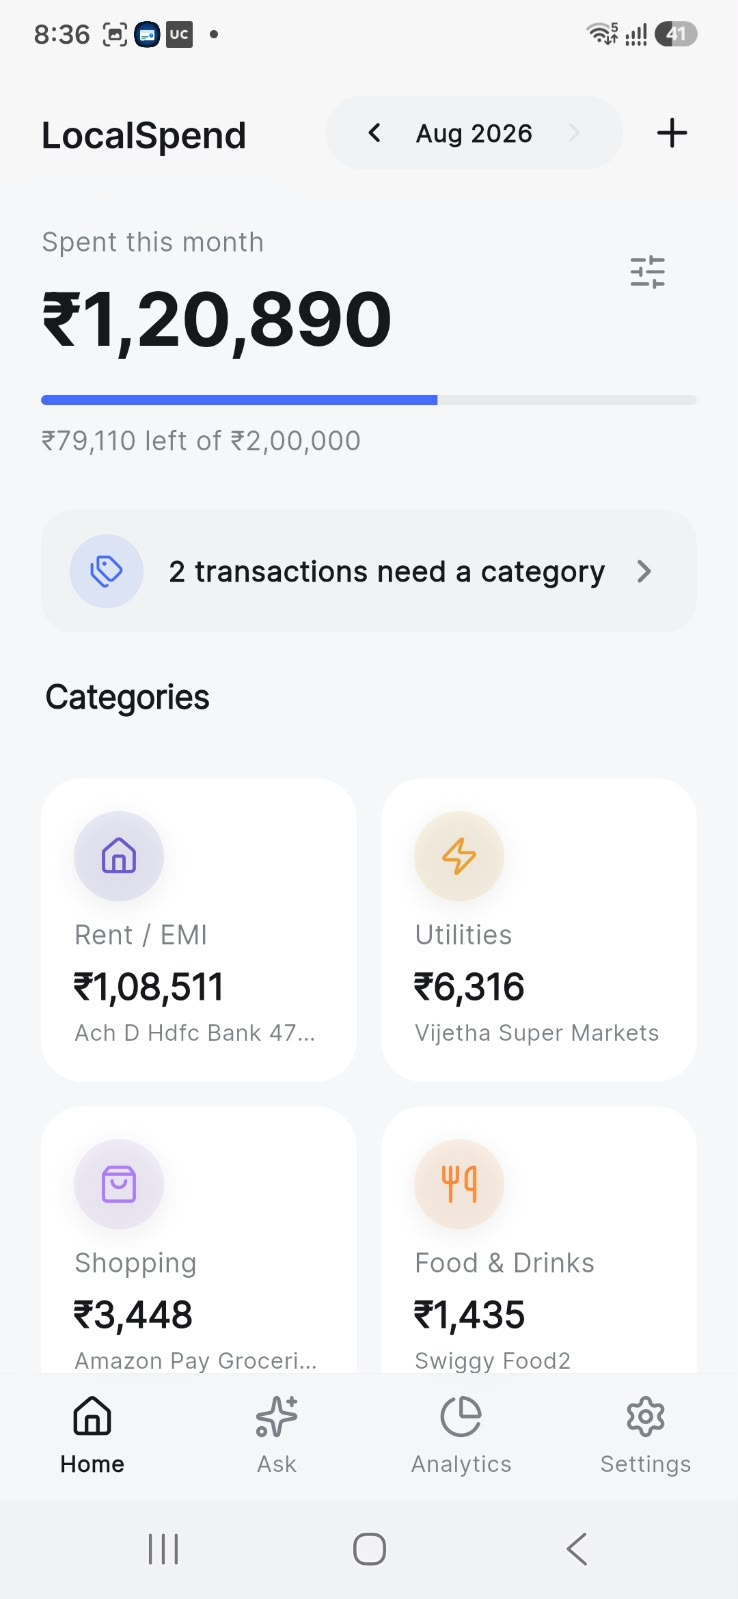
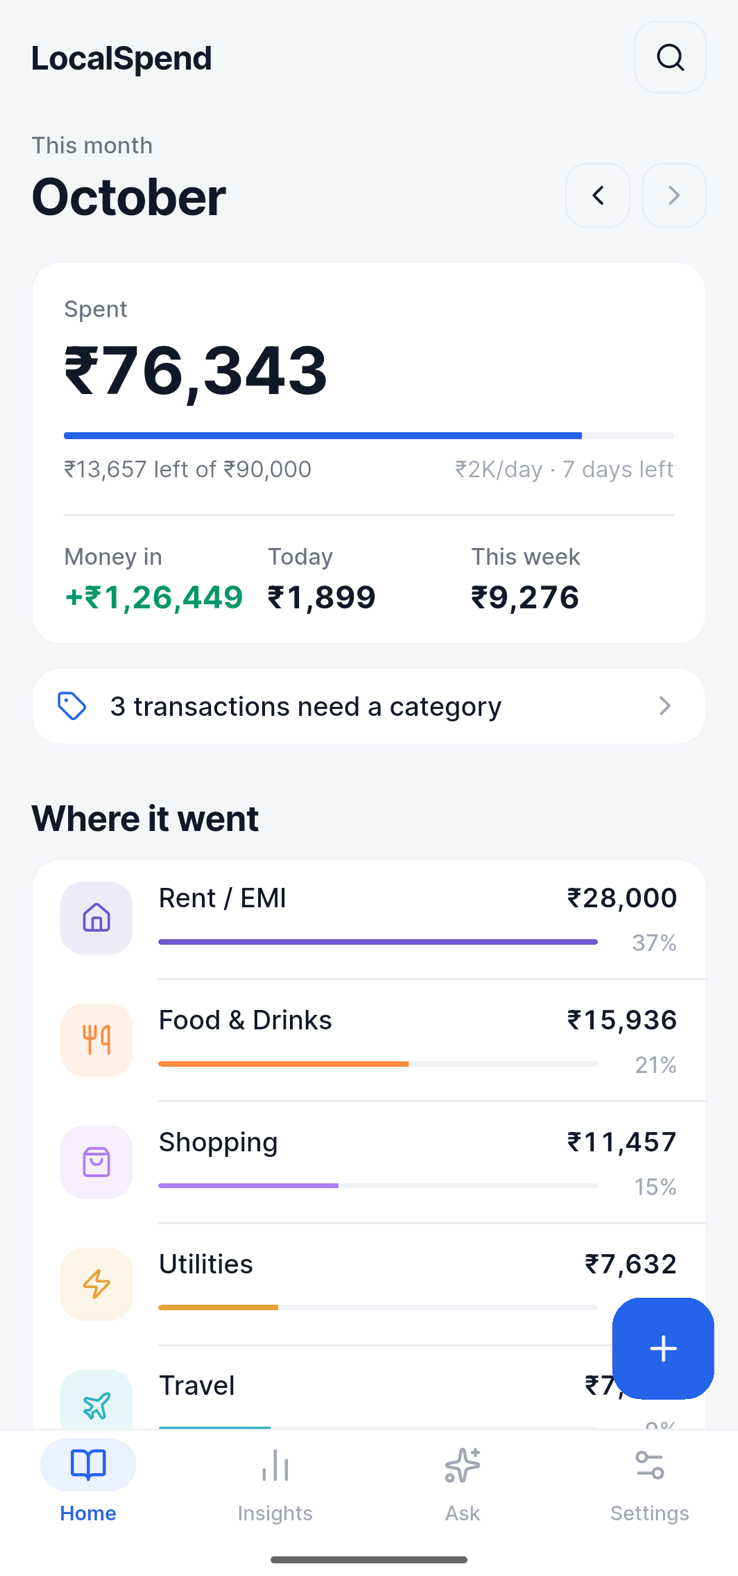
LocalSpend 2.8.0: new screenshots, updated page and privacy policy
- Six fresh screenshots of the redesigned app (light + dark)
- FAQ/how-it-works match the app (no encrypted backups, month insights)
- 2.8.0 changelog entry
- Privacy policy matches app behaviour: Gmail Limited Use disclosure,
  no font fetching, no location/alarm permissions, Clear all data

diff --git a/src/content/privacy/localspend.md b/src/content/privacy/localspend.md
@@ -1,51 +1,55 @@
 ---
 app: "LocalSpend"
-lastUpdated: "2026-08-15"
+lastUpdated: "2026-10-25"
 ---
 
 ## Overview
 
-LocalSpend handles some of your most sensitive information — your financial transactions — so it is built to keep that data on your device. This policy explains exactly what the app does, including the few places where it talks to the internet.
+LocalSpend handles some of your most sensitive information, your financial transactions, so it keeps that data on your device. It has no account, no server and no analytics. This policy explains exactly what the app does, including the few times it uses the internet.
 
 ## Data we collect
 
-**We do not collect your personal data.** LocalSpend has no server, no user accounts, no analytics, no crash reporting, and no advertising. Your transactions are never uploaded anywhere.
+**We do not collect your personal data.** LocalSpend has no server, no user accounts, no analytics, no crash reporting and no advertising. Your transactions are never uploaded anywhere, and we never receive them.
 
 ## Data stored on your device
 
-Your transactions, categories, budgets, merchant rules, and settings live in a local database on your phone. Optionally, the original SMS or email text of a transaction can be kept locally so you can review the source. You can protect the app with Face ID / fingerprint lock.
+Your transactions, budget, category rules and settings live in a private database on your phone. For each imported transaction the app also keeps the original SMS text, or a short excerpt of the email, so you can see where it came from. If you connect Gmail, the app stores the account's email address on your phone to show which account is connected.
 
 ## SMS reading (Android only)
 
-With your permission, LocalSpend reads SMS messages to find bank, card, and UPI transaction alerts. All parsing happens on your device; messages are never transmitted anywhere. Non-transaction messages are ignored.
+With your permission (`READ_SMS`, `RECEIVE_SMS`), LocalSpend reads text messages to find bank, card and UPI transaction alerts. Each message is checked on your phone. OTPs, promotions and personal messages are skipped, and messages are never sent anywhere.
 
 ## Gmail import (optional)
 
-If you connect a Gmail account, LocalSpend uses Google Sign-In with **read-only** Gmail access to fetch bank alert emails to your device, where they are parsed locally. Nothing is uploaded, and LocalSpend cannot send, modify, or delete your email. Google's handling of the sign-in itself is governed by [Google's Privacy Policy](https://policies.google.com/privacy). You can disconnect an account at any time.
+If you connect a Gmail account, LocalSpend uses Google Sign-In to request **read-only** Gmail access (`gmail.readonly`). It reads bank alert emails on your phone to find transactions. It cannot send, change or delete email, and email content is never sent to us or anyone else. Google's handling of the sign-in itself is governed by [Google's Privacy Policy](https://policies.google.com/privacy).
+
+LocalSpend's use and transfer of information received from Google APIs adheres to the [Google API Services User Data Policy](https://developers.google.com/terms/api-services-user-data-policy), including the Limited Use requirements. Gmail data is used only to show you your own transactions in the app. It is not used for advertising, it is not sold or shared, and no person reads it.
+
+You can disconnect an account in Settings at any time. You can also revoke access at [myaccount.google.com/permissions](https://myaccount.google.com/permissions).
 
 ## On-device AI assistant (optional)
 
-The "Ask" feature uses a language model that runs entirely on your phone. Enabling it triggers a **one-time download of the model file** (~1.5 GB) from Hugging Face's servers; that download contains no information about you, and no request about your data is ever sent to any AI service. All questions and answers are processed offline, on-device.
+The "Ask" feature uses a language model that runs entirely on your phone. Turning it on triggers a **one-time download of the model file** (about 1.5 GB) from Hugging Face's servers. The download contains no information about you, and your questions and answers are processed offline, on your phone.
 
 ## Other network activity
 
-The app may fetch its display font from Google Fonts on first launch (cached afterwards). No personal data is included in that request.
+There is none. Apart from Gmail import and the optional model download, LocalSpend makes no network requests. Its fonts are built into the app.
 
 ## Exports and backups
 
-CSV exports and encrypted backup files (AES-256, protected by your passphrase) are created on your device and shared only where you choose to send them. Automatic backups are stored locally on your phone.
+CSV exports and backup files are created on your phone. They go only where you choose to send them through the share sheet, such as Drive, Files or email. Automatic backups are stored in the app's private storage on your phone.
 
 ## Permissions
 
-Android: SMS (transaction import), notifications (recurring-payment reminders), biometrics (app lock), boot/alarm (background rescan scheduling). A coarse-location permission may appear in the system listing because of the SMS library the app uses — LocalSpend itself never accesses your location. iOS: Face ID (app lock) only.
+**Android:** SMS (transaction import), notifications (a reminder when a regular payment is due), biometrics (app lock), internet (Gmail import and the model download), and starting at boot so background imports keep running. **iOS:** Face ID (app lock), notifications (payment reminders), and a photo-library notice required by the file picker used to choose a backup to restore. LocalSpend never reads your photos.
 
 ## Data deletion
 
-Deleting the app permanently removes all of your data. There is no server-side copy, because none exists.
+**Settings → Clear all data** deletes every transaction, setting, connected account and on-device backup. Uninstalling the app also removes all of its data. There is no server-side copy, because none exists.
 
 ## Children's privacy
 
-LocalSpend does not knowingly collect any data from anyone, including children under 13.
+LocalSpend is meant for adults managing their own money. It does not knowingly collect any data from anyone, including children under 13.
 
 ## Changes to this policy
 

diff --git a/src/content/apps/localspend.md b/src/content/apps/localspend.md
@@ -7,17 +7,17 @@ icon: /apps/localspend/icon.png
 accent: "#0A1932"
 screenshots:
   - src: /apps/localspend/screenshot-1.png
-    alt: "Home with monthly budget progress and category cards"
+    alt: "Home: this month's spend against the budget and where it went by category"
   - src: /apps/localspend/screenshot-2.png
-    alt: "Category spending overview for the month"
+    alt: "The monthly ledger, every transaction grouped by day"
   - src: /apps/localspend/screenshot-3.png
-    alt: "Analytics with income, net cashflow, and month-over-month comparison"
+    alt: "Insights: month vs last month, daily spending chart and category changes"
   - src: /apps/localspend/screenshot-4.png
-    alt: "Spending by category compared to last month"
+    alt: "Six-month trend of spending and income, and detected recurring payments"
   - src: /apps/localspend/screenshot-5.png
-    alt: "Daily spend trend chart with weekly to yearly ranges"
+    alt: "A transaction with its category, details and the original bank message"
   - src: /apps/localspend/screenshot-6.png
-    alt: "Category donut chart of monthly spending"
+    alt: "Home in dark mode"
 techStack: [Flutter, Riverpod, Drift (SQLite), On-device LLM (Qwen 2.5), fl_chart]
 supportEmail: hello@sagarchandagarwal.com
 faq:
@@ -30,10 +30,19 @@ faq:
   - q: "Which banks and currencies are supported?"
     a: "LocalSpend is built for India: it understands alerts from major banks (HDFC, SBI, ICICI, Axis, Kotak and more) and UPI apps (GPay, PhonePe, Paytm, BHIM), and tracks amounts in ₹ INR."
   - q: "Can I export or back up my data?"
-    a: "Yes — full CSV export via the share sheet, plus passphrase-protected encrypted backups (AES-256) you can restore or move to a new phone."
+    a: "Yes — export everything to CSV, or back up to a file you save anywhere (Drive, Files, email) and restore it on any phone. Automatic backups can also run daily, weekly or monthly on your device."
   - q: "Is it free?"
     a: "Completely free. No ads, no in-app purchases, no subscription."
 changelog:
+  - version: "2.8.0"
+    date: "2026-10-25"
+    notes:
+      - "Fresh light design, with a full monthly ledger grouped by day"
+      - "Insights follow the month you pick: daily chart, six-month trend, category changes"
+      - "Search, edit, delete and re-categorise any transaction"
+      - "Duplicates and card-bill payments no longer inflate totals"
+      - "Backups keep income, duplicates and exclusions exactly"
+      - "Better merchant detection for HDFC UPI alerts; app lock works with PIN-only phones"
   - version: "2.7.1"
     date: "2026-08-09"
     notes:
@@ -66,7 +75,7 @@ It categorises transactions against 670+ known merchants, watches your monthly b
 
 1. **Connect your alerts.** Grant SMS access on Android and/or connect Gmail (read-only) on either platform. LocalSpend recognises alerts from major Indian banks, cards, and UPI apps.
 2. **Watch the ledger build itself.** Transactions appear with merchant, amount, and category — auto-matched against a built-in merchant database. Correct one once and the rule sticks.
-3. **Stay on budget.** Set a monthly limit and see exactly what's left; analytics break down your week, month, half-year, or year, with month-over-month comparisons and top merchants.
+3. **Stay on budget.** Set a monthly limit and see exactly what's left per day. Insights compare the month with the one before, show your daily rhythm, top merchants and a six-month trend.
 4. **Catch the leaks.** Recurring payments are detected and predicted; subscriptions (Netflix, Spotify, Prime…) are spotted from billing emails and listed with renewal dates.
 5. **Ask anything.** Optionally download the on-device AI model once, then ask natural questions — "how much on food this month?" — answered offline, from your data only.
-6. **Keep it yours.** Biometric lock, CSV export, and encrypted, passphrase-protected backups. Everything lives in a local database on your phone.
+6. **Keep it yours.** App lock, CSV export, and backups you can save anywhere and restore. Everything lives in a local database on your phone — clear it all from Settings any time.
